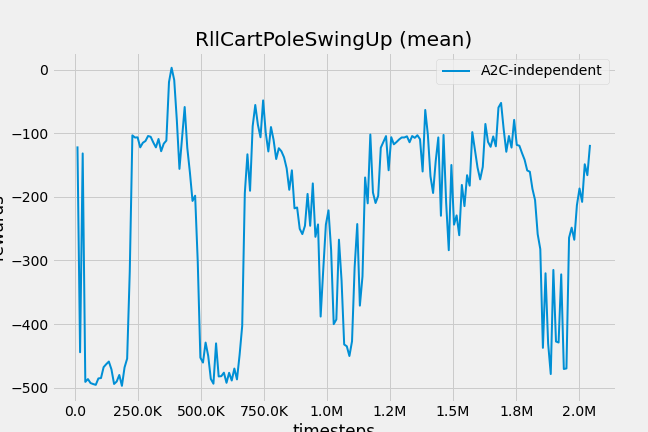
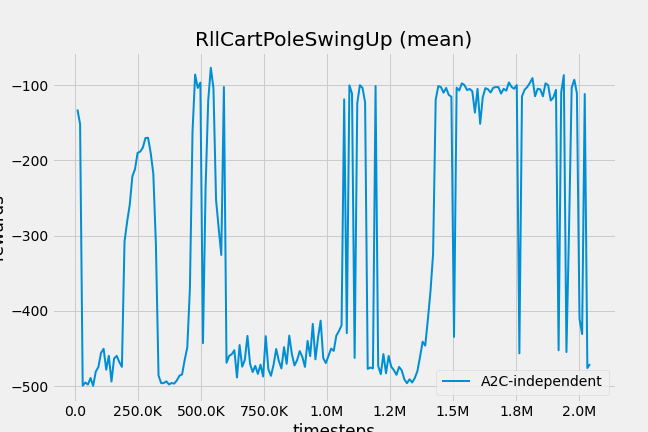
added std to plots

Changed region(s): [[0.0309, 0.1505, 0.9259, 0.9329], [0.0309, 0.1505, 0.0926, 0.2106]]

diff --git a/svpg/visu/performances.py b/svpg/visu/performances.py
@@ -28,15 +28,17 @@ def plot_algos_performances(
     algo_names = [path.name for path in Path(directory).iterdir() if path.is_dir()]
 
     for algo_name in algo_names:
-        _, _, rewards, timesteps = load_algo(directory + algo_name)
+        _, _, rewards, t = load_algo(directory + algo_name)
 
         if mode == "best":
             best = rewards.sum(axis=1).argmax()
             rewards = rewards[best]
         else:
+            std = rewards.std(axis=0)
             rewards = rewards.mean(axis=0)
+            ax.fill_between(t, rewards + std, rewards - std, alpha=0.5)
 
-        ax.plot(timesteps, rewards, linewidth=2, label=f"{algo_name}")
+        ax.plot(t, rewards, linewidth=2, label=f"{algo_name}")
 
     ax.xaxis.set_major_formatter(formatter)
     plt.legend()

diff --git a/tests/test_a2c_swingup.py b/tests/test_a2c_swingup.py
@@ -18,12 +18,12 @@ params = {
         "every_n_seconds": 10,
     },
     "algorithm": {
-        "n_particles": 1,
+        "n_particles": 4,
         "seed": 432,
         "n_envs": 8,
         "n_steps": 16,
         "eval_interval": 80,
-        "n_evals": 1,
+        "n_evals": 10,
         "clipped": True,
         "max_epochs": 16000,
         "discount_factor": 0.99,
